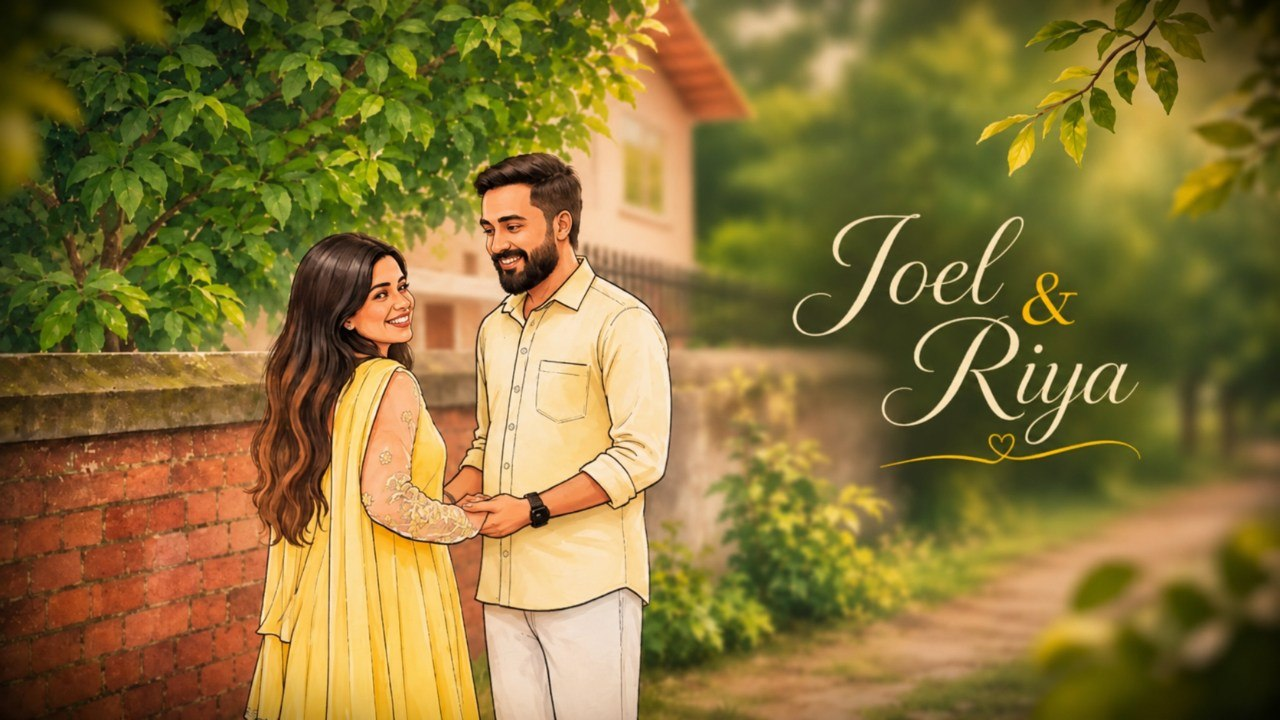
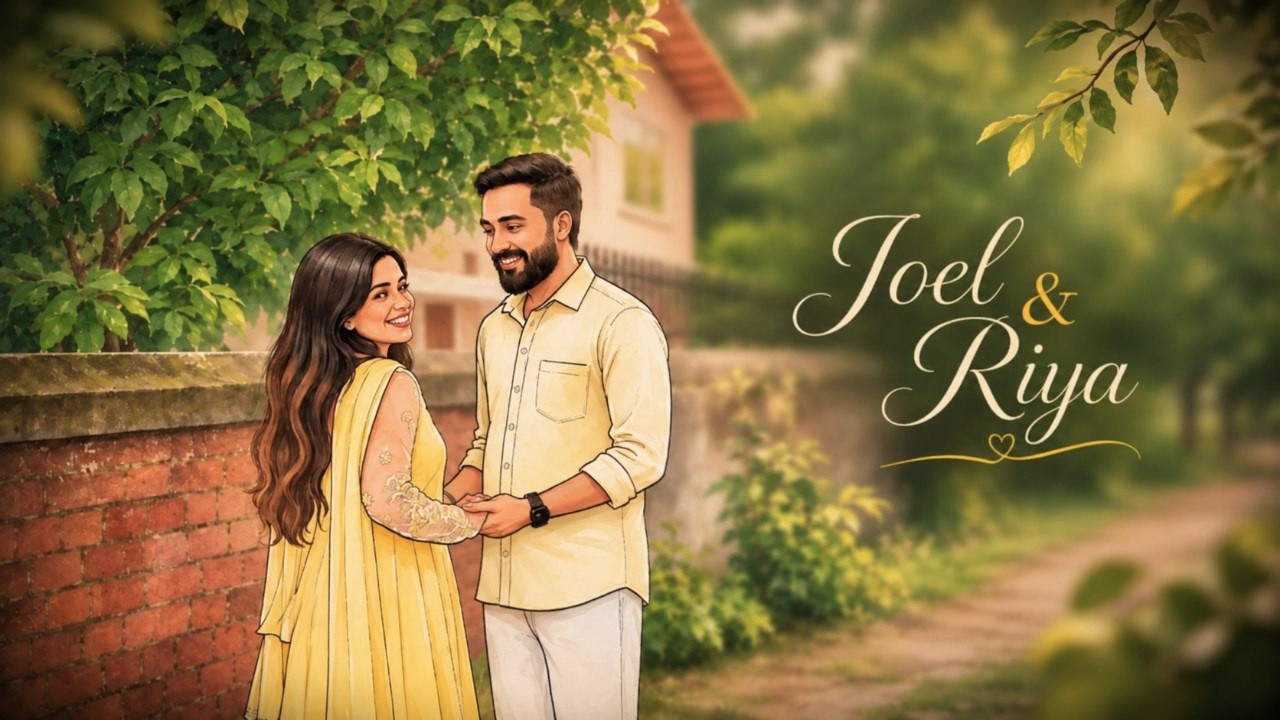
Update thumb.jpg and bump OG preview cache to v5

diff --git a/index.html b/index.html
@@ -16,8 +16,8 @@
   <meta property="og:title" content="Joel George &amp; Dr. Riya Mary Mathew — Wedding Invitation" />
   <meta property="og:description"
     content="Wedding Invitation of Joel George and Dr. Riya Mary Mathew — Wedding on January 3, 2027 &amp; Reception on January 5, 2027." />
-  <meta property="og:image" content="https://riya-joel-vv2x.vercel.app/assets/thumb.jpg?v=4" />
-  <meta property="og:image:secure_url" content="https://riya-joel-vv2x.vercel.app/assets/thumb.jpg?v=4" />
+  <meta property="og:image" content="https://riya-joel-vv2x.vercel.app/assets/thumb.jpg?v=5" />
+  <meta property="og:image:secure_url" content="https://riya-joel-vv2x.vercel.app/assets/thumb.jpg?v=5" />
   <meta property="og:image:type" content="image/jpeg" />
   <meta property="og:image:width" content="1672" />
   <meta property="og:image:height" content="941" />
@@ -29,11 +29,11 @@
   <meta name="twitter:title" content="Joel George &amp; Dr. Riya Mary Mathew — Wedding Invitation" />
   <meta name="twitter:description"
     content="Wedding Invitation of Joel George and Dr. Riya Mary Mathew — Wedding on January 3, 2027 &amp; Reception on January 5, 2027." />
-  <meta name="twitter:image" content="https://riya-joel-vv2x.vercel.app/assets/thumb.jpg?v=4" />
+  <meta name="twitter:image" content="https://riya-joel-vv2x.vercel.app/assets/thumb.jpg?v=5" />
 
   <!-- Link preview fallbacks -->
-  <link rel="image_src" href="https://riya-joel-vv2x.vercel.app/assets/thumb.jpg?v=4" />
-  <link rel="apple-touch-icon" href="https://riya-joel-vv2x.vercel.app/assets/thumb.jpg?v=4" />
+  <link rel="image_src" href="https://riya-joel-vv2x.vercel.app/assets/thumb.jpg?v=5" />
+  <link rel="apple-touch-icon" href="https://riya-joel-vv2x.vercel.app/assets/thumb.jpg?v=5" />
   <link rel="canonical" href="https://riya-joel-vv2x.vercel.app/" />
   <link rel="preconnect" href="https://fonts.googleapis.com" />
   <link rel="preconnect" href="https://fonts.gstatic.com" crossorigin />
